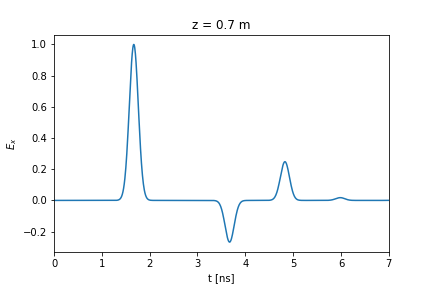
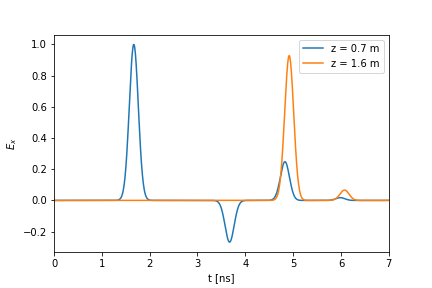
reflection coefficient

diff --git a/README.md b/README.md
@@ -15,6 +15,7 @@ graph TD
 ## 1D problem
 ![](img/1D.gif)
 ![](img/1D-time-domain.png)
+![](img/1D-reflection.png)
 
 # 参考
 - 数値電磁界解析のためのFDTD法 -基礎と実践- (コロナ社)
